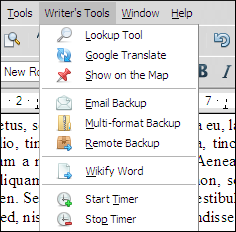
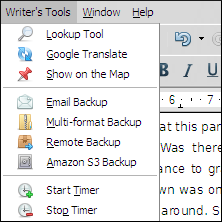
New writertools.png. Updated WriterToolsUserGuide.html.

diff --git a/WriterToolsUserGuide.html b/WriterToolsUserGuide.html
@@ -501,6 +501,9 @@ Also see AdvancedOptions</pre>
 <div title="Bookmarks Menu" modifier="Dmitri Popov" modified="200802292302" created="200802251732" tags="bookmarks" changecount="4">
 <pre>Although the Writer’s Tools extension offers a few different tools, you might not need all of them. In this case, you can use the [[Bookmarks Menu|http://extensions.services.openoffice.org/project/bookmarksmenu]] extension to create shortcuts to your favorite tools. To do this, install the extension and add the Bookmarks menu to the main toolbar by choosing Tools -&gt; Add-ons -&gt; Bookmarks Menu and pressing OK. Let’s say you want to bookmark the ~Multi-Format Backup tool. Choose Bookmarks -&gt; Edit Bookmarks and press the New button. Give the bookmark a name (e.g., Multi-format Backup), select Macro from the Type drop-down list, press the Open button, and use the Script selector dialog window to navigate to the ~MultiFormatBackup macro (users -&gt; Basic -&gt; ~WriterTools -&gt;Tools -&gt; ~MultiFormatBackup). Press OK to save the bookmark and close the windows. Now you can access the ~Multi-Format Backup tool via the Bookmarks menu in the main toolbar.</pre>
 </div>
+<div title="Configure Amazon S3 Backup" modifier="Dmitri Popov" modified="200811140950" created="200811140945" tags="s3cmd amazon s3" changecount="4">
+<pre>The Amazon S3 Backup tool relies on the [[s3cmd|http://s3tools.logix.cz/s3cmd]] utility which must be installed on your system. Before you start, you have to sign up to [[Amazon S3 service|http://aws.amazon.com/s3/]], if you don't already have one. To install s3cmd on your machine, download the latest release of the utility, unpack the downloaded archive, switch to the resulting directory in the terminal and run the {{{python setup.py install}}} command as root. Before you can start using s3cmd, you have to configure it using the {{{s3cmd --configure}}} command (have your Amazon identification keys ready to enter when prompted). Once s3cmd is configured and ready to go, you have to create a so-called bucket which is a repository on the Amazon S3 servers where you store your files. To do this use the {{{s3cmd mb s3://BUCKET}}} command, where {{{BUCKET}}} is a unique name for your bucket. Keep it mind that the bucket name must be unique among all buckets on the Amazon S3 servers, so you have to come up with something more original than &quot;myfiles&quot; or &quot;documents&quot;. Fortunately, you don't have to remember the exact name of the bucket, as you can use the {{{s3cmd ls}}} command to view all your existing buckets on Amazon S3.</pre>
+</div>
 <div title="Configure Email Backup" modifier="DmitriPopov" modified="200808271456" created="200802251705" tags="email backup" changecount="17">
 <pre>Using the Email Backup command, you can email a copy of the current document to a specified email address. This tool requires a Gmail account and Python installed on your machine. On most Linux distributions, Python is already installed, so all you have to do is to place the {{{gmail_backup.py}}} script into your user directory. On Windows, download Python 2.5 from [[Python's official website|http://www.python.org/]] and install it your machine. @@You must install Python into the default {{{C:/Python25}}} directory.@@ Copy the {{{gmail_backup.py}}} script into the {{{C:/Python25}}} directory.
 
@@ -820,12 +823,13 @@ config.formatters.push(
 # Translate all dialogs.
 # Add local resources to the Lookup Tool. For example, instead of the English version of Wikipedia, you might want to add a link to Wikipedia in your native language.</pre>
 </div>
-<div title="MainMenu" modifier="DmitriPopov" modified="200808191933" created="200802251649" changecount="33">
+<div title="MainMenu" modifier="DmitriPopov" modified="200811140950" created="200802251649" changecount="35">
 <pre>[[Install/upgrade]]
 [[Set browser path]]
 [[Register WriterDB]]
 [[Configure Email Backup]]
 [[Tweak Remote Backup]]
+[[Configure Amazon S3 Backup]]
 [[Tweak Lookup tool]]
 [[Tweak Convert To]]
 [[Bookmarks Menu]]
